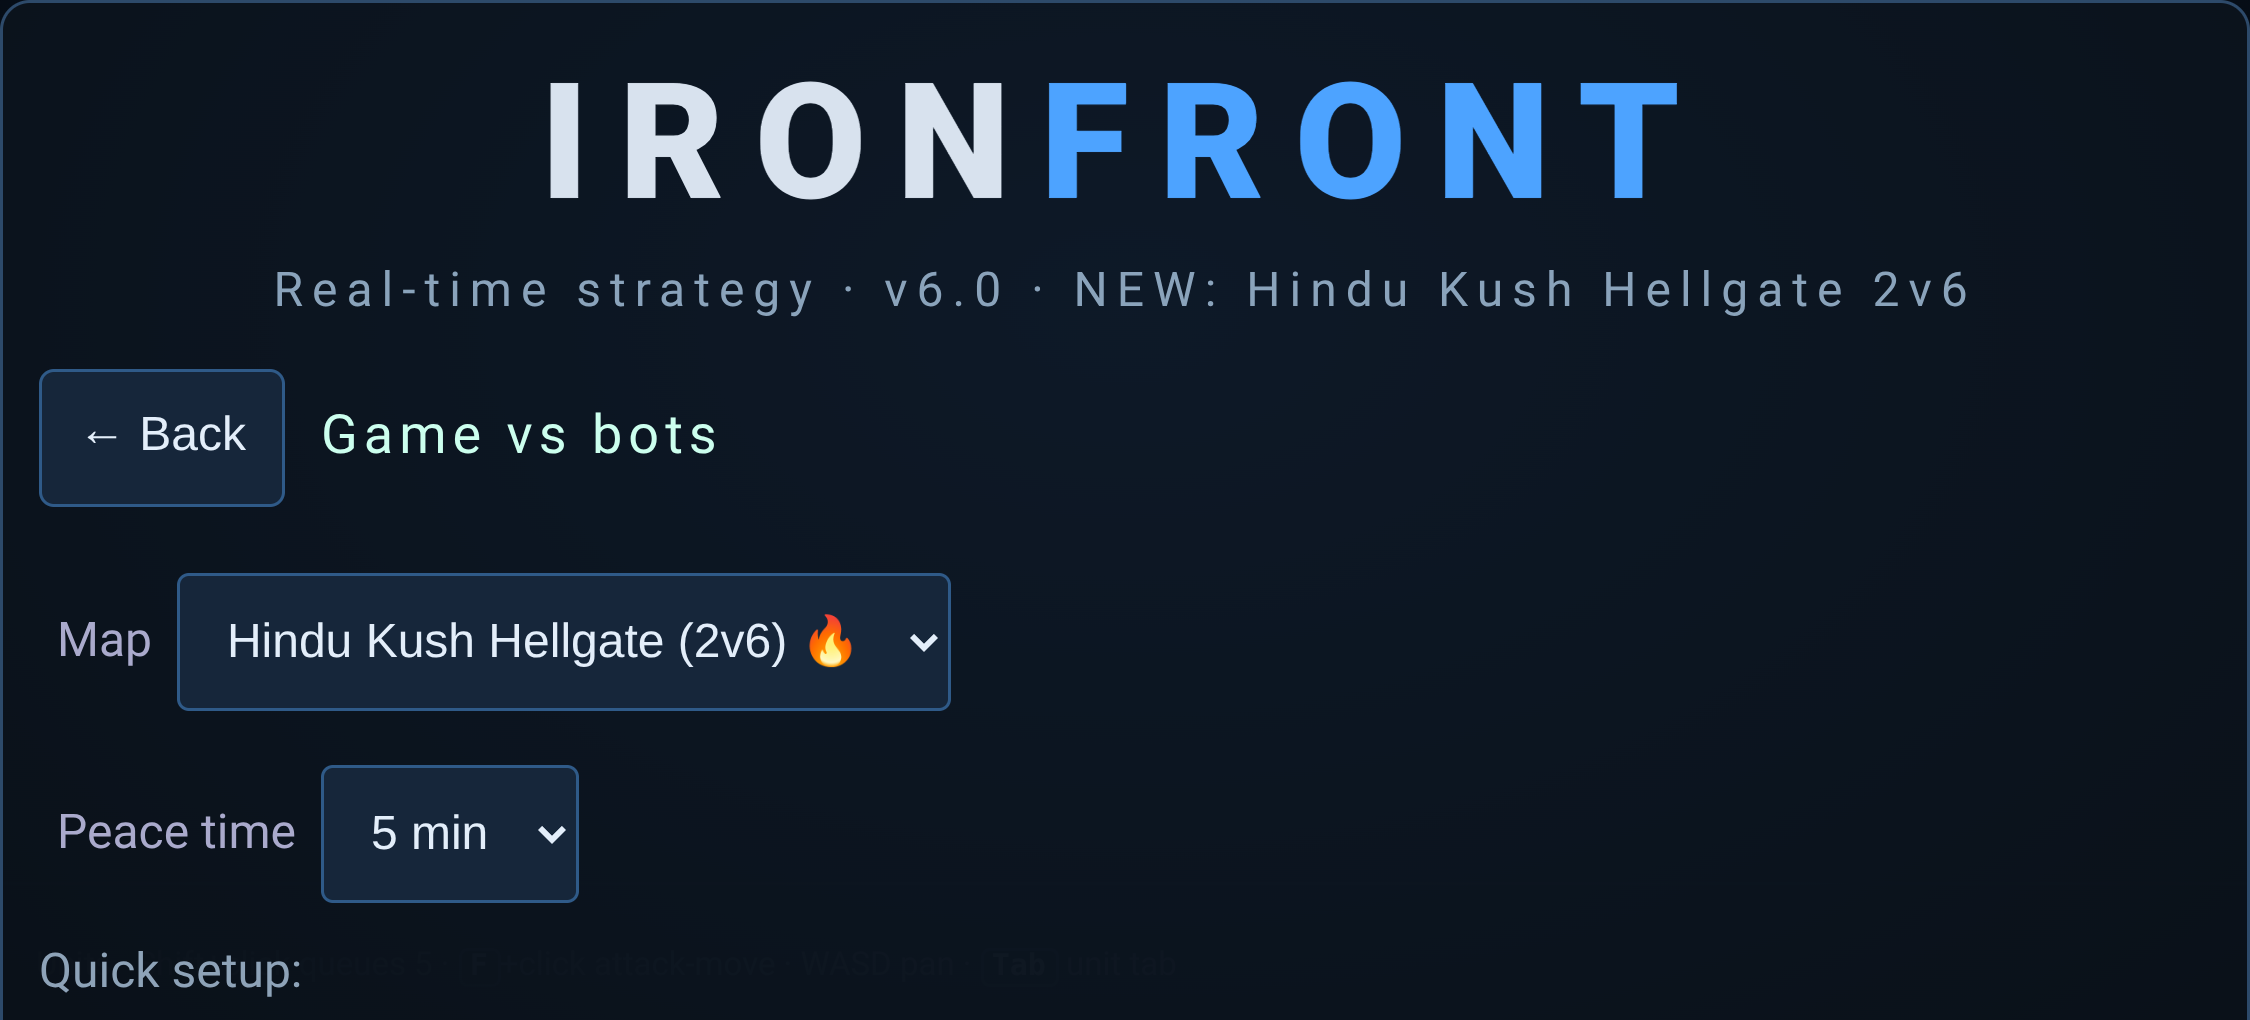
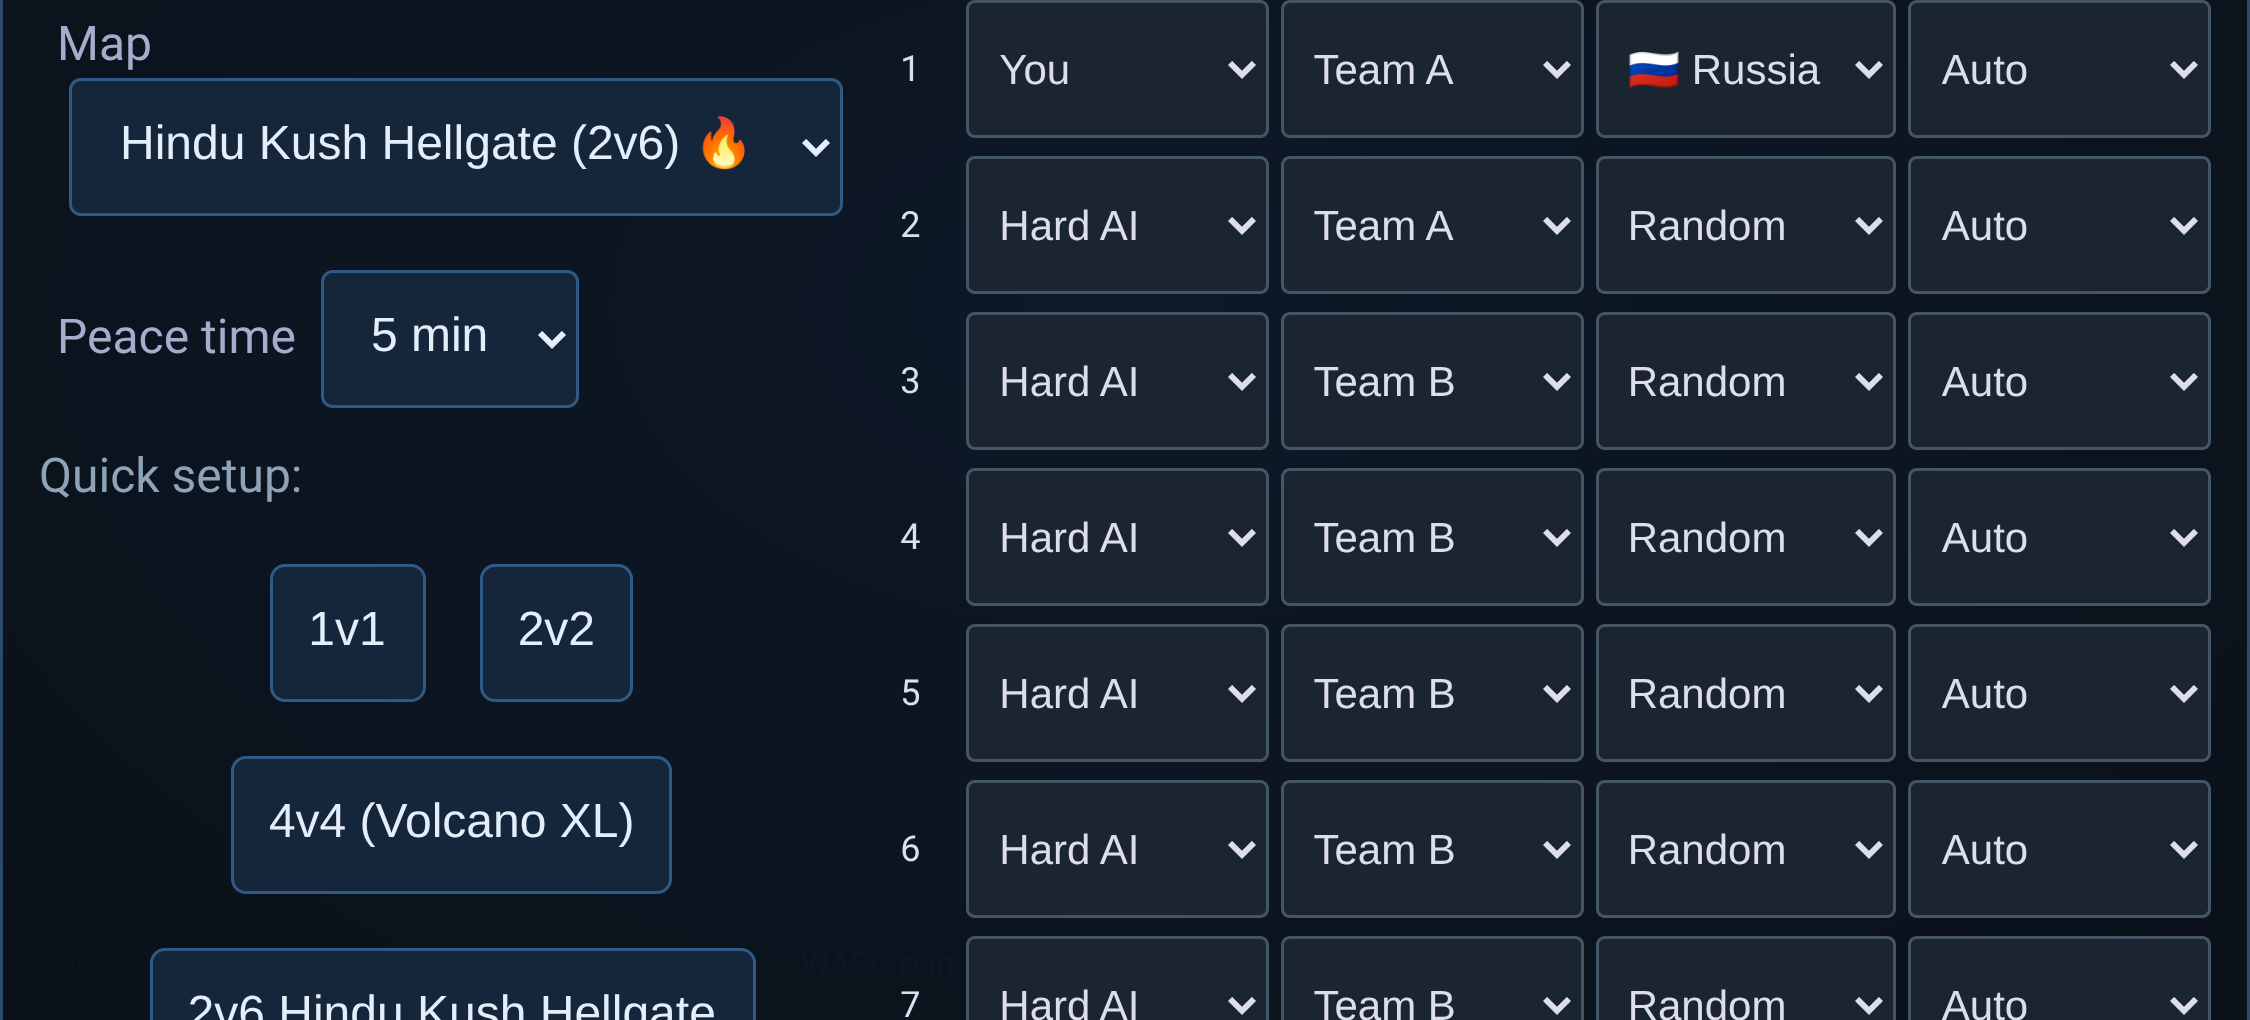
v6.1: landscape phone lobby layout

diff --git a/test/mobile-play-test.js b/test/mobile-play-test.js
@@ -117,7 +117,7 @@ const ROOT = 'file://' + path.resolve(__dirname, '../index.html'), PART = proces
     ok(lb.rows === 8 && lb.ow && lb.small === 0, 'Hellgate auto-setup fills 8 lobby rows; lobby fits the phone and every control >= 44px ' + JSON.stringify(lb));
     // change my faction by touch (first row faction select)
     const fs = await pg.$('#lobby .lrow:not(.lh) select.lf, #lobby .lrow:not(.lh) select[data-k="fac"]'); if (fs) { await fs.selectOption({ index: 2 }); }
-    await pg.screenshot({ path: 'shots/v6_1-mobile-lobby.png' });
+    await pg.evaluate(() => document.getElementById('lobby').scrollIntoView({ block: 'start' })); await pg.waitForTimeout(300); await pg.screenshot({ path: 'shots/v6_1-mobile-lobby.png' });
     await pg.tap('#startBtn'); await pg.waitForTimeout(5000);
     const g = await pg.evaluate(() => ({ map: G.opts.map || G.map, np: G.players.length, mplay: document.body.classList.contains('mplay'), q: R3.q.label, far: R3.camera.far, cards: document.querySelectorAll('#mCards .item').length }));
     ok(g.np === 8 && g.mplay && g.cards > 3, 'Hellgate 2v6 starts in mobile play mode ' + JSON.stringify(g));

diff --git a/js/mobile.js b/js/mobile.js
@@ -13,7 +13,7 @@ function mobDetect() { // phone / small tablet: coarse primary pointer + small v
   try { const coarse = matchMedia('(pointer: coarse)').matches, small = Math.max(screen.width, screen.height) <= 1400 && Math.min(screen.width, screen.height) <= 1100; return coarse && small; } catch (e) { return false; } }
 function mobSet(on, save) {
   MOB.on = !!on; document.body.classList.toggle('mobile', MOB.on); if (save !== false) try { localStorage.setItem('ifMobile', MOB.on ? '1' : '0'); } catch (e) {}
-  const b = document.getElementById('mobileBtn'); if (b) b.textContent = '📱 Mobile controls: ' + (MOB.on ? 'On' : 'Off');
+  const b = document.getElementById('mobileBtn'); if (b) b.textContent = '📱 Touch controls: ' + (MOB.on ? 'On' : 'Off');
   const w = document.getElementById('mobWatchBtn'); if (w) w.style.display = MOB.on ? '' : 'none';
   if (MOB.on) mobBuildHud();
   const ctx = document.getElementById('ctx'); if (ctx) { const host = MOB.on ? document.getElementById('mCtx') : document.getElementById('side'); if (host && ctx.parentNode !== host) host.appendChild(ctx); }

diff --git a/style.css b/style.css
@@ -169,3 +169,6 @@ body.mobile.mplay #msg{top:calc(max(4px,env(safe-area-inset-top)) + 96px);font-s
 body.mobile #tip{max-width:300px}
 #mRejoin{display:none;position:fixed;left:50%;top:40%;transform:translate(-50%,-50%);z-index:70;background:rgba(8,14,22,.97);border:1px solid #ffc23d;border-radius:12px;padding:16px;text-align:center;color:#fff;font-size:16px}
 #mRejoin button{margin-top:12px;min-height:52px;font-size:18px;padding:0 20px;border-radius:10px}
+@media (max-height:520px){body.mobile #menu h1{font-size:30px;margin:2px 0}body.mobile #menu .sub{font-size:11px;margin:0 0 6px}body.mobile #menu .panel{padding:6px 12px}
+body.mobile .setupRow{flex-direction:row;gap:12px;align-items:flex-start}body.mobile .setupL{flex:0 0 38%}body.mobile .setupR{flex:1;min-width:0}body.mobile #mapPrev{width:min(34vw,200px);height:min(34vw,200px)}}
+@media (max-height:520px){body.mobile #lobby .lrow{grid-template-columns:18px repeat(4,minmax(0,1fr));gap:4px;margin-bottom:6px}body.mobile #lobby .lrow > .lf{grid-column:auto}body.mobile #lobby .lrow select{font-size:14px;padding:4px 6px}}

diff --git a/index.html b/index.html
@@ -32,7 +32,7 @@
     <button id="playBotsBtn" class="big">▶ Play vs Bots</button>
     <button id="playOnlineBtn" class="big alt">🌐 Play Online</button>
     <button id="mobWatchBtn" class="big alt" style="display:none">👁 Watch 4v4 bots (Volcano XL)</button>
-    <div id="mobHint" style="display:none">Touch screen detected — tap <b>📱 Mobile view</b> below for touch controls.</div>
+    <div id="mobHint" style="display:none">📱 Touch controls on (landscape recommended) — tap the build cards, drag to pan, pinch to zoom. Switch off below for mouse/keyboard.</div>
     <div class="homeSmall"><button id="replayBtn">Replays</button> <button id="lastReplayBtn" style="display:none">▶ Watch last game</button> <button id="mobileBtn">📱 Mobile view: Off</button> <button id="homeSetBtn" onclick="openSettings(true)">Settings</button><input type="file" id="replayFile" accept=".json,application/json" style="display:none"></div>
   </div>
   <div id="setup" style="display:none">
